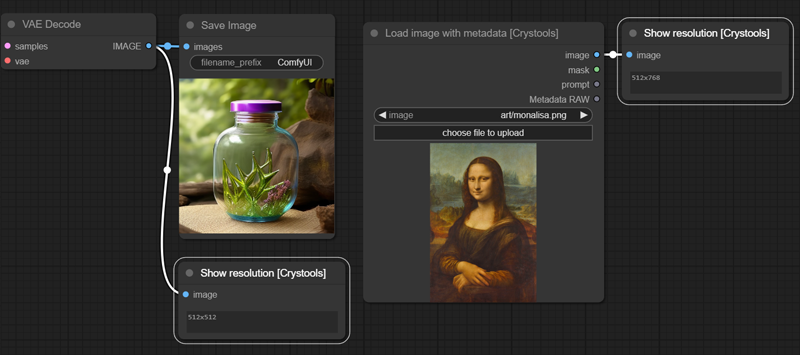
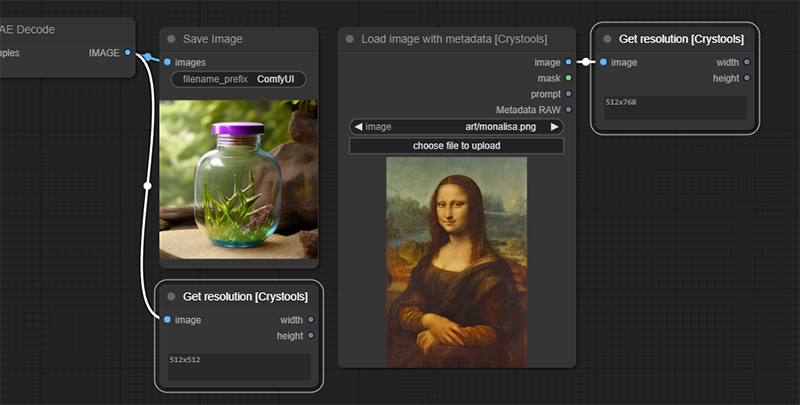
return width and height the getResolution

diff --git a/web/js/extensions.js b/web/js/extensions.js
@@ -2,7 +2,7 @@ import { app } from '../../../scripts/app.js';
 import { displayContext } from './common.js';
 
 let crystoolsExtensions = {
-  'Show resolution [Crystools]': 'Crystools.Image.ShowResolution',
+  'Get resolution [Crystools]': 'Crystools.Image.GetResolution',
   'Preview from image [Crystools]': 'Crystools.Image.PreviewFromImage',
   'Preview from metadata [Crystools]': 'Crystools.Image.PreviewFromMetadata',
   'Metadata comparator [Crystools]': 'Crystools.Metadata.MetadataComparator',

diff --git a/__init__.py b/__init__.py
@@ -11,7 +11,7 @@ from .nodes.primitive import CBoolean, CText, CTextML, CInteger, CFloat
 from .nodes.switch import CSwitchBooleanAny, CSwitchBooleanLatent, CSwitchBooleanConditioning, CSwitchBooleanImage, \
     CSwitchBooleanString
 from .nodes.debugger import CConsoleAny, CConsoleAnyToJson
-from .nodes.image import CImagePreviewFromImage, CImageLoadWithMetadata, CImageShowResolution, CImagePreviewFromMetadata
+from .nodes.image import CImagePreviewFromImage, CImageLoadWithMetadata, CImageGetResolution, CImagePreviewFromMetadata
 from .nodes.list import CListAny, CListString
 from .nodes.pipe import CPipeToAny, CPipeFromAny
 from .nodes.utils import CUtilsCompareJsons, CUtilsStatSystem
@@ -40,7 +40,7 @@ NODE_CLASS_MAPPINGS = {
     CLASSES.CPIPE_FROM_ANY_NAME.value: CPipeFromAny,
 
     CLASSES.CIMAGE_LOAD_METADATA_NAME.value: CImageLoadWithMetadata,
-    CLASSES.CIMAGE_SHOW_RESOLUTION_NAME.value: CImageShowResolution,
+    CLASSES.CIMAGE_GET_RESOLUTION_NAME.value: CImageGetResolution,
     CLASSES.CIMAGE_PREVIEW_IMAGE_NAME.value: CImagePreviewFromImage,
     CLASSES.CIMAGE_PREVIEW_METADATA_NAME.value: CImagePreviewFromMetadata,
 
@@ -73,7 +73,7 @@ NODE_DISPLAY_NAME_MAPPINGS = {
     CLASSES.CPIPE_FROM_ANY_NAME.value: CLASSES.CPIPE_FROM_ANY_DESC.value,
 
     CLASSES.CIMAGE_LOAD_METADATA_NAME.value: CLASSES.CIMAGE_LOAD_METADATA_DESC.value,
-    CLASSES.CIMAGE_SHOW_RESOLUTION_NAME.value: CLASSES.CIMAGE_SHOW_RESOLUTION_DESC.value,
+    CLASSES.CIMAGE_GET_RESOLUTION_NAME.value: CLASSES.CIMAGE_GET_RESOLUTION_DESC.value,
     CLASSES.CIMAGE_PREVIEW_IMAGE_NAME.value: CLASSES.CIMAGE_PREVIEW_IMAGE_DESC.value,
     CLASSES.CIMAGE_PREVIEW_METADATA_NAME.value: CLASSES.CIMAGE_PREVIEW_METADATA_DESC.value,
 

diff --git a/nodes/image.py b/nodes/image.py
@@ -190,7 +190,7 @@ class CImagePreviewFromMetadata(PreviewImage):
         return images
 
 
-class CImageShowResolution:
+class CImageGetResolution:
     def __init__(self):
         pass
 
@@ -207,7 +207,8 @@ class CImageShowResolution:
         }
 
     CATEGORY = CATEGORY.MAIN.value + CATEGORY.IMAGE.value
-    RETURN_TYPES = ()
+    RETURN_TYPES = ("INT", "INT",)
+    RETURN_NAMES = ("width", "height",)
     OUTPUT_NODE = True
 
     FUNCTION = "execute"
@@ -217,7 +218,7 @@ class CImageShowResolution:
         text = [f"{res['x']}x{res['y']}"]
         setWidgetValues(text, unique_id, extra_pnginfo)
         logger.info(f"Resolution: {text}")
-        return {"ui": {"text": text}}
+        return {"ui": {"text": text}, "result": (res["x"], res["y"])}
 
 
 # subfolders based on: https://github.com/catscandrive/comfyui-imagesubfolders

diff --git a/nodes/_names.py b/nodes/_names.py
@@ -46,8 +46,8 @@ class CLASSES(Enum):
 
     CIMAGE_LOAD_METADATA_NAME = "Load image with metadata [Crystools]"
     CIMAGE_LOAD_METADATA_DESC = "Load image with metadata [Crystools]"
-    CIMAGE_SHOW_RESOLUTION_NAME = "Show resolution [Crystools]"
-    CIMAGE_SHOW_RESOLUTION_DESC = "Show resolution [Crystools]"
+    CIMAGE_GET_RESOLUTION_NAME = "Get resolution [Crystools]"
+    CIMAGE_GET_RESOLUTION_DESC = "Get resolution [Crystools]"
     CIMAGE_PREVIEW_IMAGE_NAME = "Preview from image [Crystools]"
     CIMAGE_PREVIEW_IMAGE_DESC = "Preview from image [Crystools]"
     CIMAGE_PREVIEW_METADATA_NAME = "Preview from metadata [Crystools]"

diff --git a/README.md b/README.md
@@ -195,6 +195,16 @@ This node is used to show the resolution of an image.
 
 ![Show resolution](./docs/image-resolution.png)
 
+><details>
+>  <summary><i>Parameters</i></summary>
+>
+> - Input:
+>   - image: Any kind of image link
+> - Output:
+>   - Width: The width of the image  
+>   - Height: The height of the image
+></details>
+
 
 
 ## Pipe
@@ -369,6 +379,8 @@ You have predefined switches (string, latent, image, conditioning) but you can u
     ```
     cd ComfyUI/custom_nodes
     git clone https://github.com/crystian/ComfyUI-Crystools.git
+    cd ComfyUI-Crystools
+    pip install -r requirements.txt
     ```
 3. Start up ComfyUI.
 
